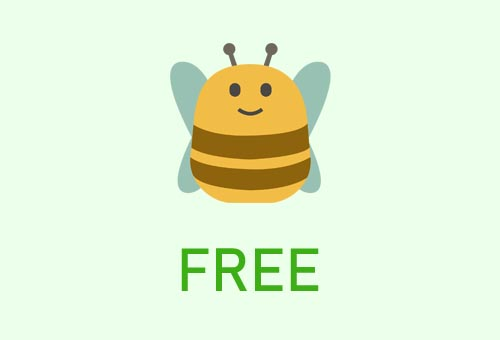
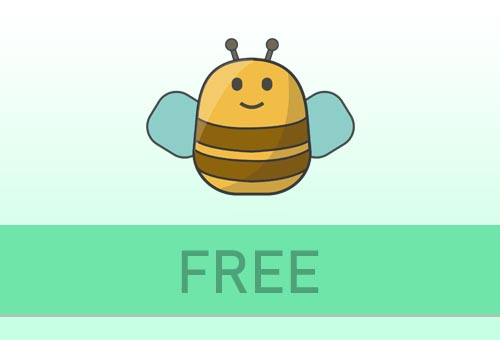
logoandpricing

diff --git a/components/Subscriptions.tsx b/components/Subscriptions.tsx
@@ -36,23 +36,24 @@ const useStyles = makeStyles({
 export default function Subscriptions() {
   return (
     <>
-      <AppBar position="static" sx={{ marginTop: "10%" }}>
-        <Typography
-          variant="h3"
-          component="div"
-          align="center"
-          sx={{ flexGrow: 1, margin: "20px" }}
-        >
-          Subscription Pricing
-        </Typography>
-      </AppBar>
+      <Box sx={{ borderRadius:"25px" }}>
+        <Paper sx={{ marginTop: "10%" }}>
+          <Typography
+            variant="h3"
+            component="div"
+            align="center"
+            sx={{ flexGrow: 1, padding: "20px", backgroundColor:"#add8e6", color:"white" }}
+          >
+            Subscriptions
+          </Typography>
+        </Paper>
+      </Box>
       <Box
         display="flex"
         justifyContent="center"
         alignItems="center"
         sx={{ mt: 10 }}
       >
-        
         <Grid container spacing={0}>
           {subscriptions.map((subscription: Subscription) => (
             <Grid item md={4} key={subscription.id} zeroMinWidth>
@@ -74,15 +75,22 @@ export default function Subscriptions() {
                     component="img"
                     height="250"
                     image={subscription.image}
-               
                     alt="subscription image"
                   />
                 </div>
                 <div>
                   {subscription.features.map((feature, j) => (
                     <Accordion key={j}>
-                      <AccordionSummary><Typography variant="subtitle2">{feature.title}</Typography></AccordionSummary>
-                      <AccordionDetails><Typography variant="body2">{feature.description}</Typography></AccordionDetails>
+                      <AccordionSummary>
+                        <Typography variant="subtitle2">
+                          {feature.title}
+                        </Typography>
+                      </AccordionSummary>
+                      <AccordionDetails>
+                        <Typography variant="body2">
+                          {feature.description}
+                        </Typography>
+                      </AccordionDetails>
                     </Accordion>
                   ))}
                 </div>

diff --git a/utils/subscriptiontypes.js b/utils/subscriptiontypes.js
@@ -4,7 +4,7 @@ export const subscriptions = [
     title: "FREE",
     name: "FREE",
     description: "This is a free membership",
-    color:"#add8e6",
+    color:"#c5ffe1",
     image: "/img/free.jpg",
     features: [
       {
@@ -26,7 +26,7 @@ export const subscriptions = [
     title: "Premium",
     name: "Premium",
     description: "This is a Premium membership",
-    color:"#4aa5ff",
+    color:"#87ceeb",
     image: "/img/premium.jpg",
     features: [
       {
@@ -48,7 +48,7 @@ export const subscriptions = [
     title: "Gold",
     name: "Gold",
     description: "This is a Gold membership",
-    color:"#2267b7",
+    color:"#ffd700",
     image: "/img/gold.jpg",
     features: [
       {

diff --git a/styles/globals.css b/styles/globals.css
@@ -26,6 +26,7 @@ a {
 }
 .MuiCard-root{
   transition: all 0.5s;
+  border-radius: 20px;
 }
 .MuiCard-root:hover{
   transform: scale(1.015);
